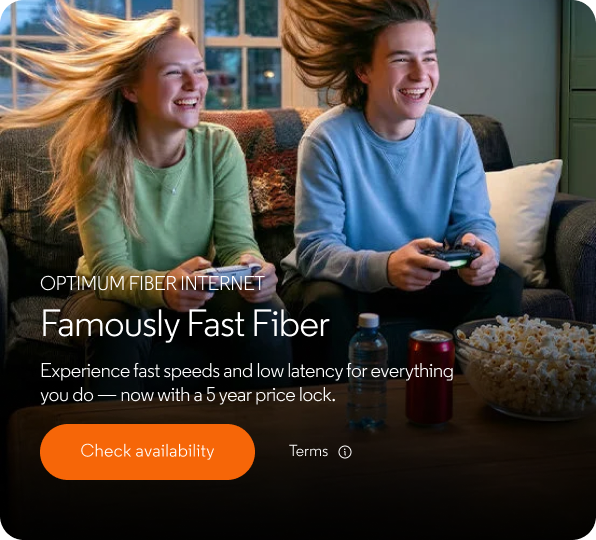
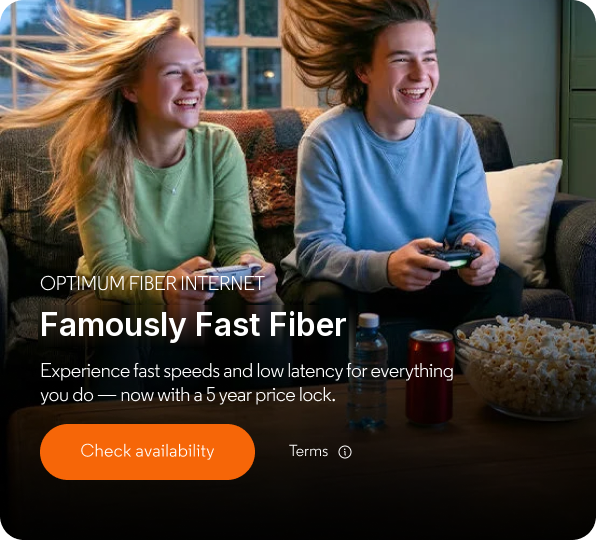
Make hero headline semi-bold (experience-smarty-desktop)

Changed region(s): [[0.0604, 0.563, 0.604, 0.6519]]

diff --git a/experience-smarty-desktop/index.html b/experience-smarty-desktop/index.html
@@ -94,7 +94,7 @@
       <section class="hero-bento" id="heroBento">
         <div class="bento-inner">
           <a class="bento-card bento-hero" href="#" id="heroCardLink">
-            <img src="./assets/bento-hero.png" alt="Optimum Fiber Internet — Famously Fast Fiber" />
+            <img src="./assets/bento-hero.png?v=20260618sb1" alt="Optimum Fiber Internet — Famously Fast Fiber" />
           </a>
           <div class="bento-col">
             <a class="bento-card" href="#"><img src="./assets/bento-5yr.png" alt="Guarantee your price for 5 years — 5 Year Price Lock" /></a>
